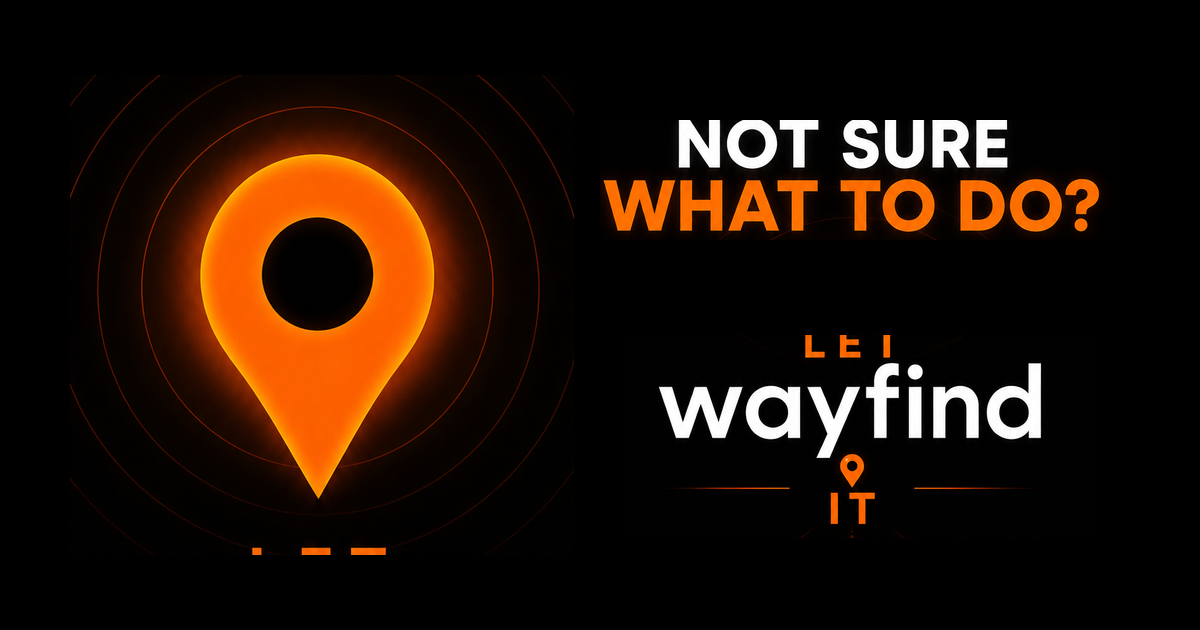
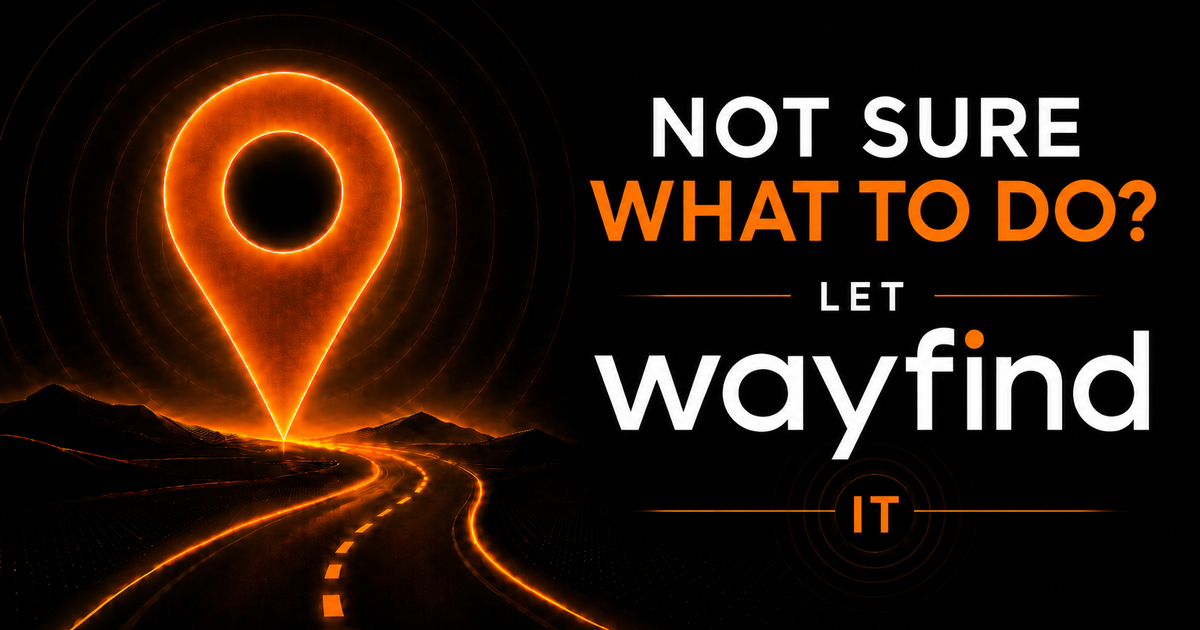
Add files via upload

diff --git a/lib/google.js b/lib/google.js
@@ -22,11 +22,13 @@ export function getLoader() {
 // Session query cache (v3.18). Google bills every Text Search; results for the
 // same query near the same spot rarely change within hours, and React state
 // dies on reload, so without this every app open re-billed the full volley.
-// TTL stays at hours, not days: place IDs are cacheable indefinitely under
-// Places ToS, full content is not meant to be warehoused. In-flight dedupe
-// means simultaneous identical queries share one request.
+// TTL is 3 days: Google's terms allow caching place content up to 30 days, and
+// name/rating/location barely move day to day; "open now" is recomputed live
+// from cached hours so it stays accurate. Cuts repeat search billing hard
+// without warehousing. Size stays at 80 to avoid overflowing phone storage.
+// In-flight dedupe means simultaneous identical queries share one request.
 const QCACHE_KEY = "wfq_v1";
-const QCACHE_TTL_MS = 4 * 3600 * 1000;
+const QCACHE_TTL_MS = 3 * 24 * 3600 * 1000;
 const QCACHE_MAX = 80;
 const _inflight = new Map();
 function qkey(kind, query, center, extra) {

diff --git a/app/layout.js b/app/layout.js
@@ -25,7 +25,7 @@ export const metadata = {
     type: "website",
     images: [
       {
-        url: "/share-card.png?v=6",
+        url: "/share-card.png?v=11",
         width: 1200,
         height: 630,
         alt: "Wayfind",
@@ -36,7 +36,7 @@ export const metadata = {
     card: "summary_large_image",
     title: "Wayfind",
     description: "Find great things to do near you, right now.",
-    images: ["/share-card.png?v=6"],
+    images: ["/share-card.png?v=11"],
   },
 };
 

diff --git a/app/page.js b/app/page.js
@@ -11,7 +11,7 @@ import * as Cats from "../lib/categories";
 import * as Dining from "../lib/dining";
 
 const BUILD = "beta";
-const BUILD_ID = "v3.53";
+const BUILD_ID = "v3.59";
 const C = {
   bg: "#0D1117", panel: "#161B22", card: "#1C2230", border: "#2D3748",
   accent: "#F97316", adim: "rgba(249,115,22,.15)", blue: "#38BDF8", green: "#22C55E",
@@ -4082,7 +4082,7 @@ function PageInner() {
         <div style={{ display: "flex", alignItems: "center", justifyContent: "space-between", gap: 10, marginBottom: 10 }}>
           <div style={{ display: "flex", alignItems: "center", gap: 8, minWidth: 0 }}>
             <span onClick={openSuggested} style={{ position: "relative", display: "inline-block", cursor: "pointer" }}>
-              <img src="/wordmark.png" alt="wayfind" style={{ height: 34, width: "auto", display: "block" }} />
+              <img src="/wordmark.png?v=2" alt="wayfind" style={{ height: 34, width: "auto", display: "block" }} />
               <span style={{ position: "absolute", left: LOGO_PIN.left, top: LOGO_PIN.top, pointerEvents: "none" }}><GlowPin size={LOGO_PIN.size} /></span>
             </span>
             {locName && <span style={{ fontSize: 13, fontWeight: 400, color: C.muted, marginLeft: 2, whiteSpace: "nowrap", overflow: "hidden", textOverflow: "ellipsis" }}>· {locName}</span>}

diff --git a/CHANGELOG.md b/CHANGELOG.md
@@ -1,3 +1,35 @@
+## v3.59 - native share card + updated logo
+- Replaced the share/OG card with the native landscape artwork (1200x630, no
+  compositing). Replaced wordmark.png with the updated logo, background made
+  transparent so it sits clean on any surface. Cache-busters: OG v11, wordmark v2.
+
+## v3.58 - search cache extended to 3 days
+- QCACHE_TTL_MS 4h -> 3 days. Cuts repeat Google search billing across the main
+  feed, the suggested feed (its searches ride the same cache), and named
+  searches. Cache size kept at 80 to avoid phone-storage overflow. Within
+  Google terms (30-day cache allowance); open-now still computed live.
+
+## v3.57 - share card lockup rebuilt from brand assets
+- Wordmark lockup redone using the real brand assets: wayfind from wordmark.png
+  (carries the orange i-dot), LET set in Poppins beside it on one line, IT below,
+  iconic pin.png beside IT, road under. Pin and tagline unchanged. OG v10.
+
+## v3.56 - share card: sharp landscape, fixed crops
+- Rebuilt the landscape card so it stops clipping. Pin cropped at the glow fade
+  (no cut rings), radiating, on the left. Tagline and LET wayfind (orange i-dot
+  intact) on the right. IT on the road across the bottom. OG cache-buster v9.
+
+## v3.55 - share card: whole uncut poster
+- Reverted the recomposition. The card is now the full poster placed uncut on a
+  1200x630 black canvas, so no clipped glow rings, no dropped LET/IT, correct
+  i-dot. Cost is black side bars (portrait source in a landscape slot). OG
+  cache-buster v8. Full-width requires a natively landscape render.
+
+## v3.54 - share card cleanup
+- Rebuilt the 1200x630 share card: pin cropped above the LET line (removes the
+  stray letter-tops artifact) and the road restored beneath the wordmark.
+  Clean band-based crops on pure black, no bleed. OG cache-buster bumped to v7.
+
 ## v3.53 - new social share card
 - Replaced the site share/OG card with a landscape 1200x630 recomposition of the
   new "Not sure what to do? Let wayfind it" poster: pin left, tagline and